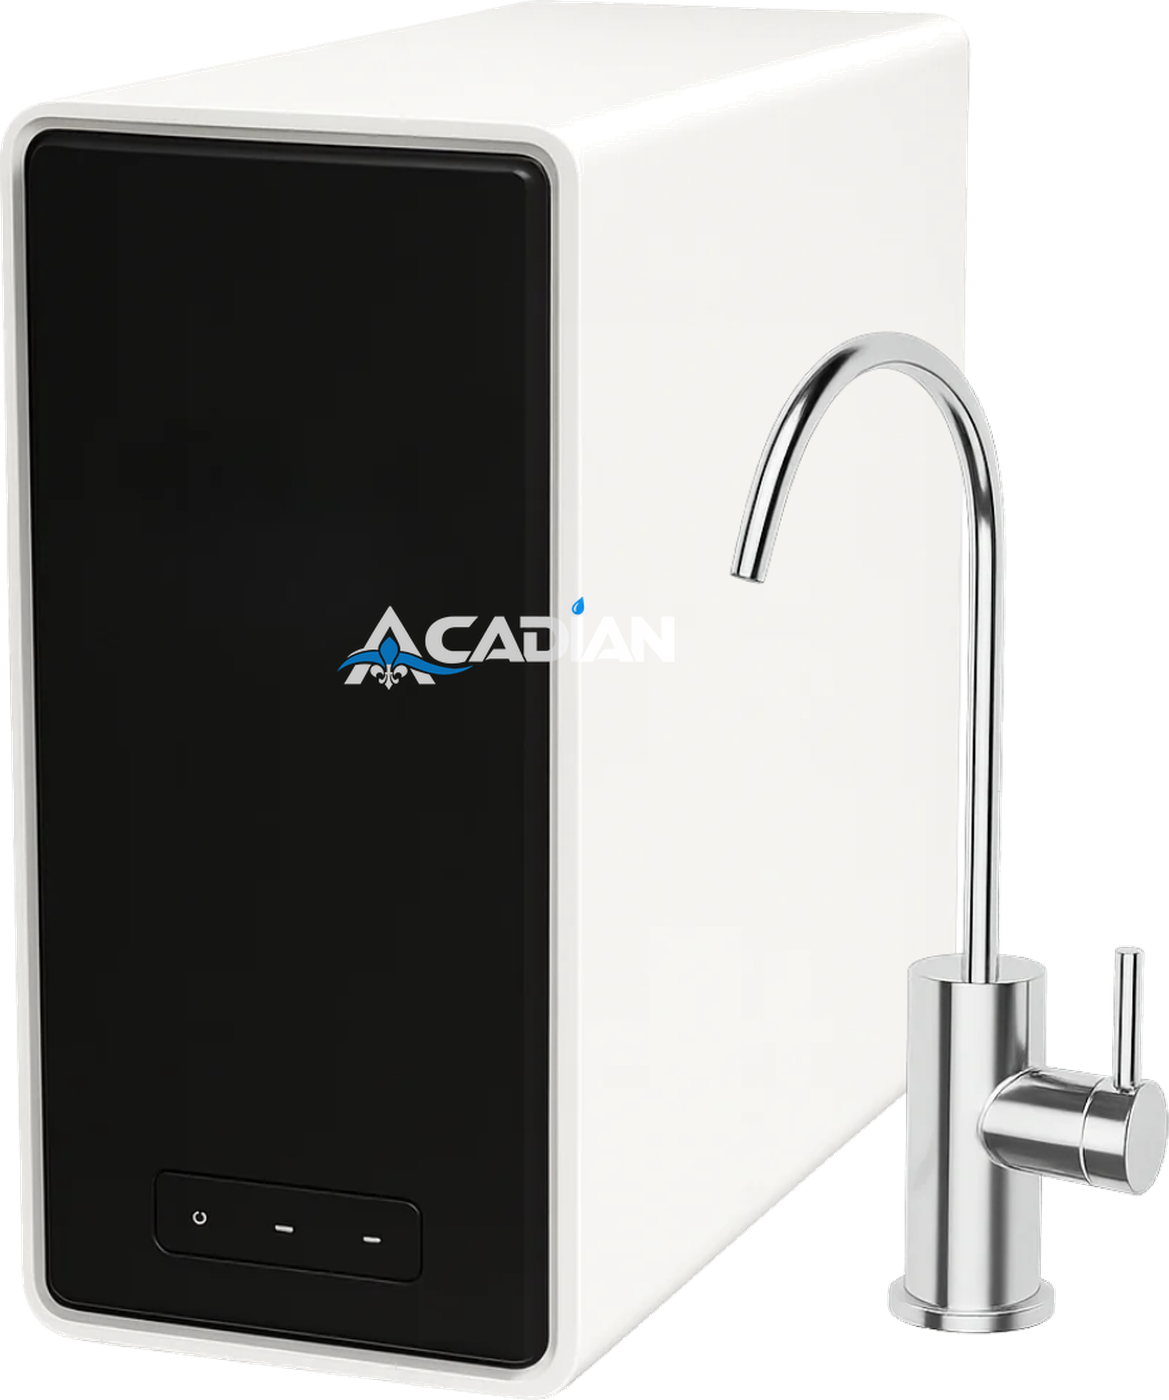
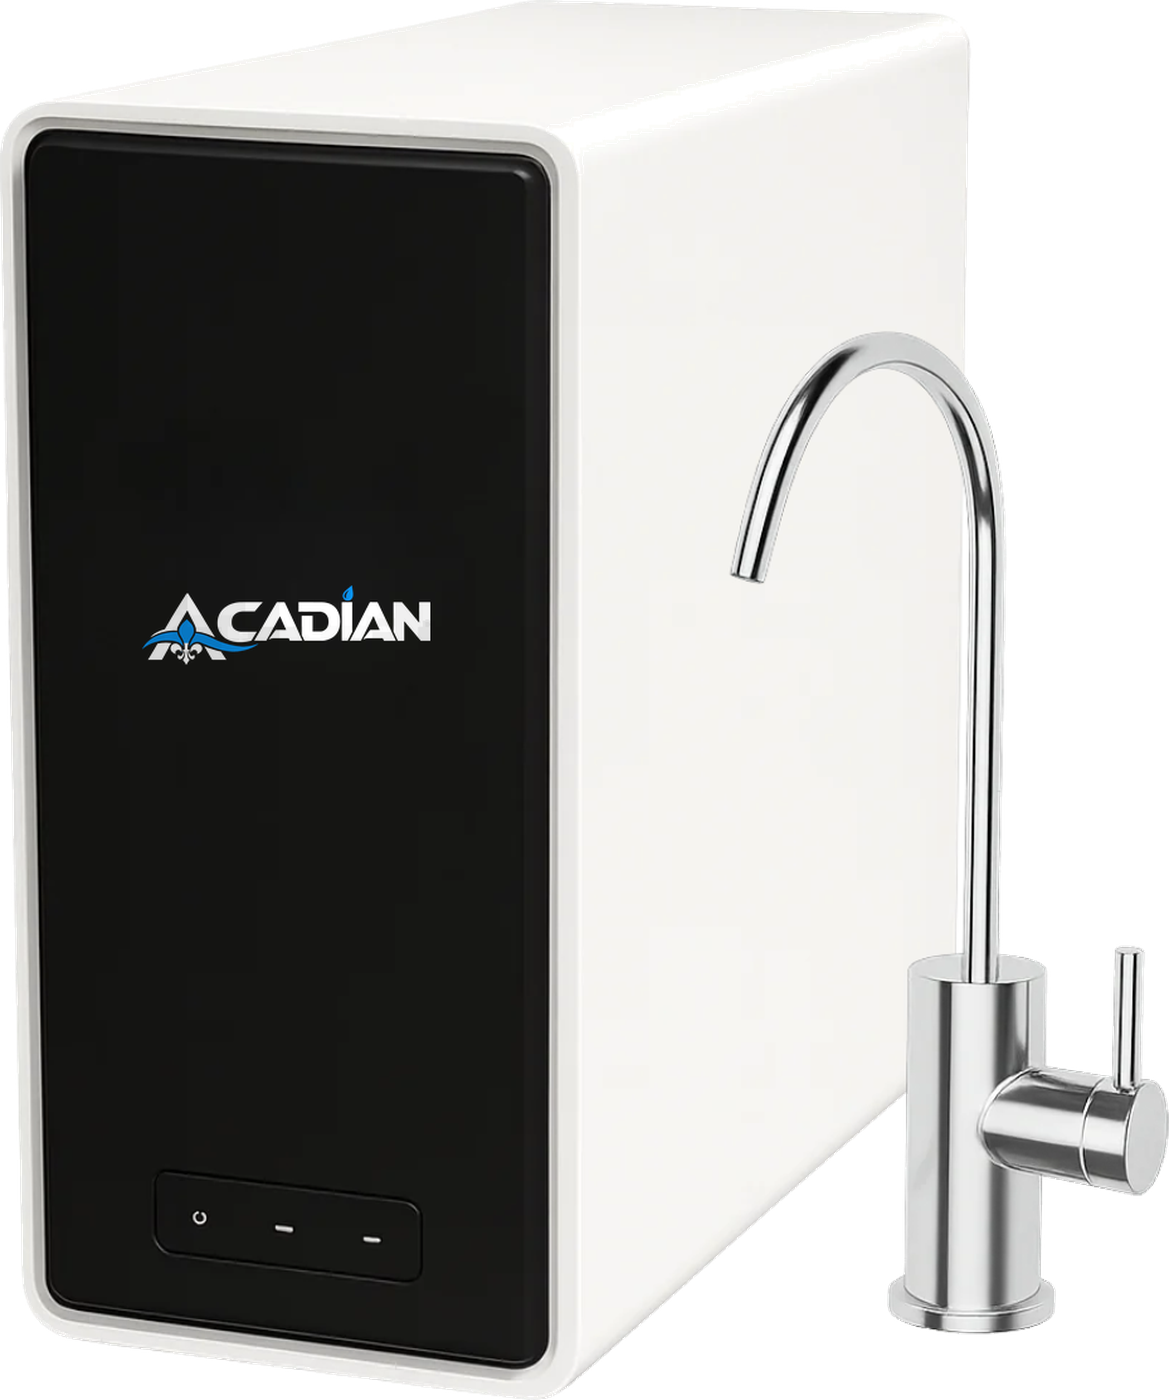
Fix the RO badge placement and strip AI-tell transitions
The reverse osmosis image was the visible defect: the badge was sized and
centred on the widest alpha run at that height, which merged the cabinet
with the faucet, so it straddled the gap and clipped the cabinet edge. It
now locates the unit's largest dark face and centres on that, verified to
sit entirely inside it.

Copy audit over all 18 rendered pages against the house rules:
- "That is why" opened a sentence on 7 different pages and "which is why"
  on 3 more. A transition repeating across ten pages is a fingerprint even
  when every individual line reads fine. Each is rewritten differently.
- Em dash removed from the report's screen-reader label.

Facts, headings, URLs and schema are untouched. Button labels and internal
link text still repeat by design; those are navigation, not voice.

Changed region(s): [[0.1232, 0.43, 0.4927, 0.4914]]

diff --git a/src/app/services/well-water-treatment-baton-rouge-la/page.tsx b/src/app/services/well-water-treatment-baton-rouge-la/page.tsx
@@ -29,7 +29,7 @@ export const metadata: Metadata = {
 const faqs = [
   {
     q: 'Why does my well water smell like rotten eggs?',
-    a: 'That rotten-egg smell is sulfur gas, and it is one of the most common well water complaints in Livingston and Ascension Parish. It forms naturally underground and escapes the moment you open a tap. That is why the smell hits hardest in a hot shower. A dedicated sulfur filter traps the gas before it reaches your plumbing, so the odor is gone at every faucet.',
+    a: 'That rotten-egg smell is sulfur gas, and it is one of the most common well water complaints in Livingston and Ascension Parish. It forms naturally underground and escapes the moment you open a tap. The smell hits hardest in a hot shower. A dedicated sulfur filter traps the gas before it reaches your plumbing, so the odor is gone at every faucet.',
   },
   {
     q: 'What causes orange or brown stains on my tubs and laundry?',
@@ -103,8 +103,8 @@ export default function WellWaterPage() {
               <h3 className="text-xl font-semibold">Rotten-egg smell in the shower</h3>
               <p className="mt-3 leading-relaxed text-zinc-600">
                 That smell is sulfur gas, dissolved in the water deep underground. It
-                escapes the moment the water hits the air. Hot water makes it worse,
-                which is why the shower is where most people finally decide to fix it.
+                escapes the moment the water hits the air. Hot water makes it worse, and the shower is
+                  where most people finally decide to fix it.
                 The right filter removes it for good.
               </p>
             </div>

diff --git a/src/app/services/pool-fill-water-treatment-baton-rouge-la/page.tsx b/src/app/services/pool-fill-water-treatment-baton-rouge-la/page.tsx
@@ -64,7 +64,7 @@ const faqs = [
   },
   {
     q: 'Can you remove iron from my water without softening it?',
-    a: 'Yes, and that is the right approach for a pool home. Oxidising filter media handle iron, manganese and sulfur while leaving calcium hardness alone. That matters here because the softener that solves scale in the house is the wrong thing on a pool fill line. The two jobs need different equipment, which is why we test before recommending anything.',
+    a: 'Yes, and that is the right approach for a pool home. Oxidising filter media handle iron, manganese and sulfur while leaving calcium hardness alone. That matters here because the softener that solves scale in the house is the wrong thing on a pool fill line. The two jobs need different equipment, so we test before recommending anything.',
   },
   {
     q: 'Do you clean pools or sell pool chemicals?',
@@ -125,8 +125,8 @@ export default function PoolFillWaterBatonRougePage() {
           <p className="mt-7 text-lg leading-relaxed text-zinc-600">
             Water evaporates. Minerals and metals do not. Every top-off adds a little
             more of whatever your tap carries, and none of it leaves. A pool on
-            iron-bearing water slowly becomes an iron concentrator, which is why the
-            staining tends to get worse each season rather than better.
+            iron-bearing water slowly becomes an iron concentrator. The
+              staining tends to get worse each season rather than better.
           </p>
           <p className="mt-5 text-lg leading-relaxed text-zinc-600">
             Testing the fill water is standard practice in the pool trade, not a

diff --git a/src/app/services/pool-fill-water-treatment-thibodaux-la/page.tsx b/src/app/services/pool-fill-water-treatment-thibodaux-la/page.tsx
@@ -74,7 +74,7 @@ export default function PoolFillWaterThibodauxPage() {
       <JsonLd data={serviceSchema} />
       <PageHero
         title="Pool Fill Water Treatment in Thibodaux, Louisiana"
-        intro="Your pool is filled and topped off from the same line that feeds your house, and around here that line traces back to Bayou Lafourche. Surface water is not the same from month to month, which is why pool chemistry down the bayou so often refuses to sit still. We test the water going in."
+        intro="Your pool is filled and topped off from the same line that feeds your house, and around here that line traces back to Bayou Lafourche. Surface water is not the same from month to month, so pool chemistry down the bayou rarely sits still. We test the water going in."
         crumbs={[
           { name: 'Home', href: '/' },
           { name: 'Services', href: '/services' },
@@ -124,7 +124,7 @@ export default function PoolFillWaterThibodauxPage() {
           <p className="mt-5 leading-relaxed text-zinc-600">
             A pool concentrates all of it. Water evaporates and minerals stay, so every
             top-off through a dry spell leaves a little more behind than the one before.
-            That is why a pool here can be balanced in spring and fighting you by late
+            A pool here can be balanced in spring and fighting you by late
             summer without anything about the pool itself having changed.
           </p>
           <div className="mt-10 space-y-7">

diff --git a/src/app/services/reverse-osmosis-system-baton-rouge-la/page.tsx b/src/app/services/reverse-osmosis-system-baton-rouge-la/page.tsx
@@ -29,7 +29,7 @@ export const metadata: Metadata = {
 const faqs = [
   {
     q: 'What does a reverse osmosis system remove?',
-    a: 'Reverse osmosis strips water down to nearly pure water by pushing it through a very fine filter. That filter blocks not just particles but dissolved minerals too. So it takes out the chlorine and leftover tastes that a basic filter misses, along with a wide range of dissolved minerals. The result at the faucet is the cleanest water you can get in a home. That is why bottling plants use reverse osmosis too.',
+    a: 'Reverse osmosis strips water down to nearly pure water by pushing it through a very fine filter. That filter blocks not just particles but dissolved minerals too. So it takes out the chlorine and leftover tastes that a basic filter misses, along with a wide range of dissolved minerals. The result at the faucet is the cleanest water you can get in a home. Bottling plants run the same process.',
   },
   {
     q: 'What is the difference between tankless and tank-style RO?',

diff --git a/src/app/services/well-water-treatment-walker-la/page.tsx b/src/app/services/well-water-treatment-walker-la/page.tsx
@@ -29,7 +29,7 @@ export const metadata: Metadata = {
 const faqs = [
   {
     q: 'Why is well water around Walker so high in iron?',
-    a: 'The shallow aquifers under Livingston Parish run high in dissolved iron and manganese. USGS groundwater studies of the parish have documented that pattern. Wells around Walker, Watson, and Holden draw from exactly that water. That is why orange staining shows up in almost every well home here that has no filter. It is a geology problem, and it has an equipment fix.',
+    a: 'The shallow aquifers under Livingston Parish run high in dissolved iron and manganese. USGS groundwater studies of the parish have documented that pattern. Wells around Walker, Watson, and Holden draw from exactly that water. Orange staining shows up in almost every well home here that has no filter. It is a geology problem, and it has an equipment fix.',
   },
   {
     q: 'Do you actually come out to Walker, or just Baton Rouge?',

diff --git a/src/app/services/water-softener-installation-baton-rouge-la/page.tsx b/src/app/services/water-softener-installation-baton-rouge-la/page.tsx
@@ -33,7 +33,7 @@ const faqs = [
   },
   {
     q: 'How much does a water softener cost installed?',
-    a: 'The price depends on how hard your water is and how big your home is. That is why the free water test comes before any quote. Our best value is the Complete Home Package at $4,950 installed. It pairs a softener with a chlorine filter and can save you up to 40% versus buying the pieces apart. Installation is free with every system either way.',
+    a: 'The price depends on how hard your water is and how big your home is, so the water test comes before any quote. Our best value is the Complete Home Package at $4,950 installed. It pairs a softener with a chlorine filter and can save you up to 40% versus buying the pieces apart. Installation is free with every system either way.',
   },
   {
     q: 'Why do tankless water heaters need soft water?',

diff --git a/src/app/services/water-filtration-denham-springs-la/page.tsx b/src/app/services/water-filtration-denham-springs-la/page.tsx
@@ -37,7 +37,7 @@ const faqs = [
   },
   {
     q: 'What does a filtration system cost in Denham Springs?',
-    a: 'The Complete Home Package is $4,950 installed. Buying each system on its own costs more, so the package can save you up to 40%. Many Denham Springs homes need less than the full package. That is why the free in-home water test comes first. We quote the one system your water actually needs, and installation is free either way.',
+    a: 'The Complete Home Package is $4,950 installed. Buying each system on its own costs more, so the package can save you up to 40%. Many Denham Springs homes need less than the full package. The free in-home test tells us which one yours is. We quote the one system your water actually needs, and installation is free either way.',
   },
   {
     q: 'Do you serve all of Livingston Parish?',

diff --git a/src/app/services/page.tsx b/src/app/services/page.tsx
@@ -75,7 +75,7 @@ export default function ServicesIndexPage() {
             When your water does need help, the test shows which system fits. City water
             in Baton Rouge is one problem. Harder groundwater out in the parishes is
             another. Private wells around Walker and Prairieville are a third. Each one
-            needs a different fix. That is why we test before we quote.
+            needs a different fix, so we test before we quote.
           </p>
         </div>
       </section>

diff --git a/src/components/SampleReport.tsx b/src/components/SampleReport.tsx
@@ -110,7 +110,7 @@ export default function SampleReport() {
                     />
                     {r.measure}
                   </span>
-                  <span className="sr-only"> — {stateStyles[r.state].label}</span>
+                  <span className="sr-only">: {stateStyles[r.state].label}</span>
                 </th>
                 {/* The value must not wrap, but the note beneath it must. Keep
                     nowrap on the value span only: on the cell it is inherited by
